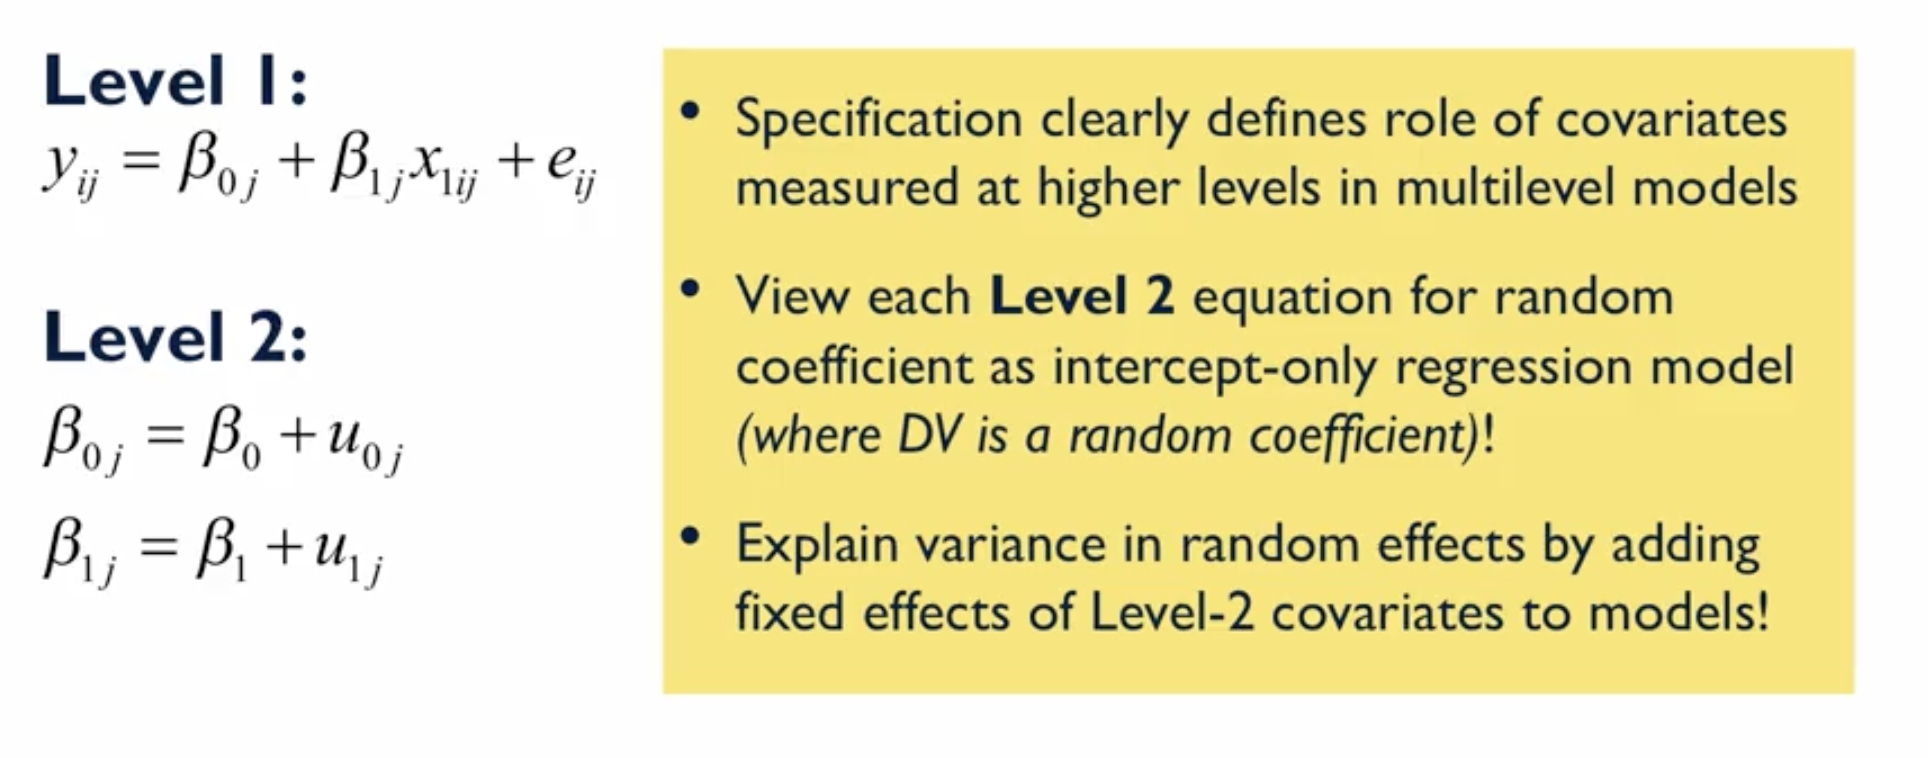
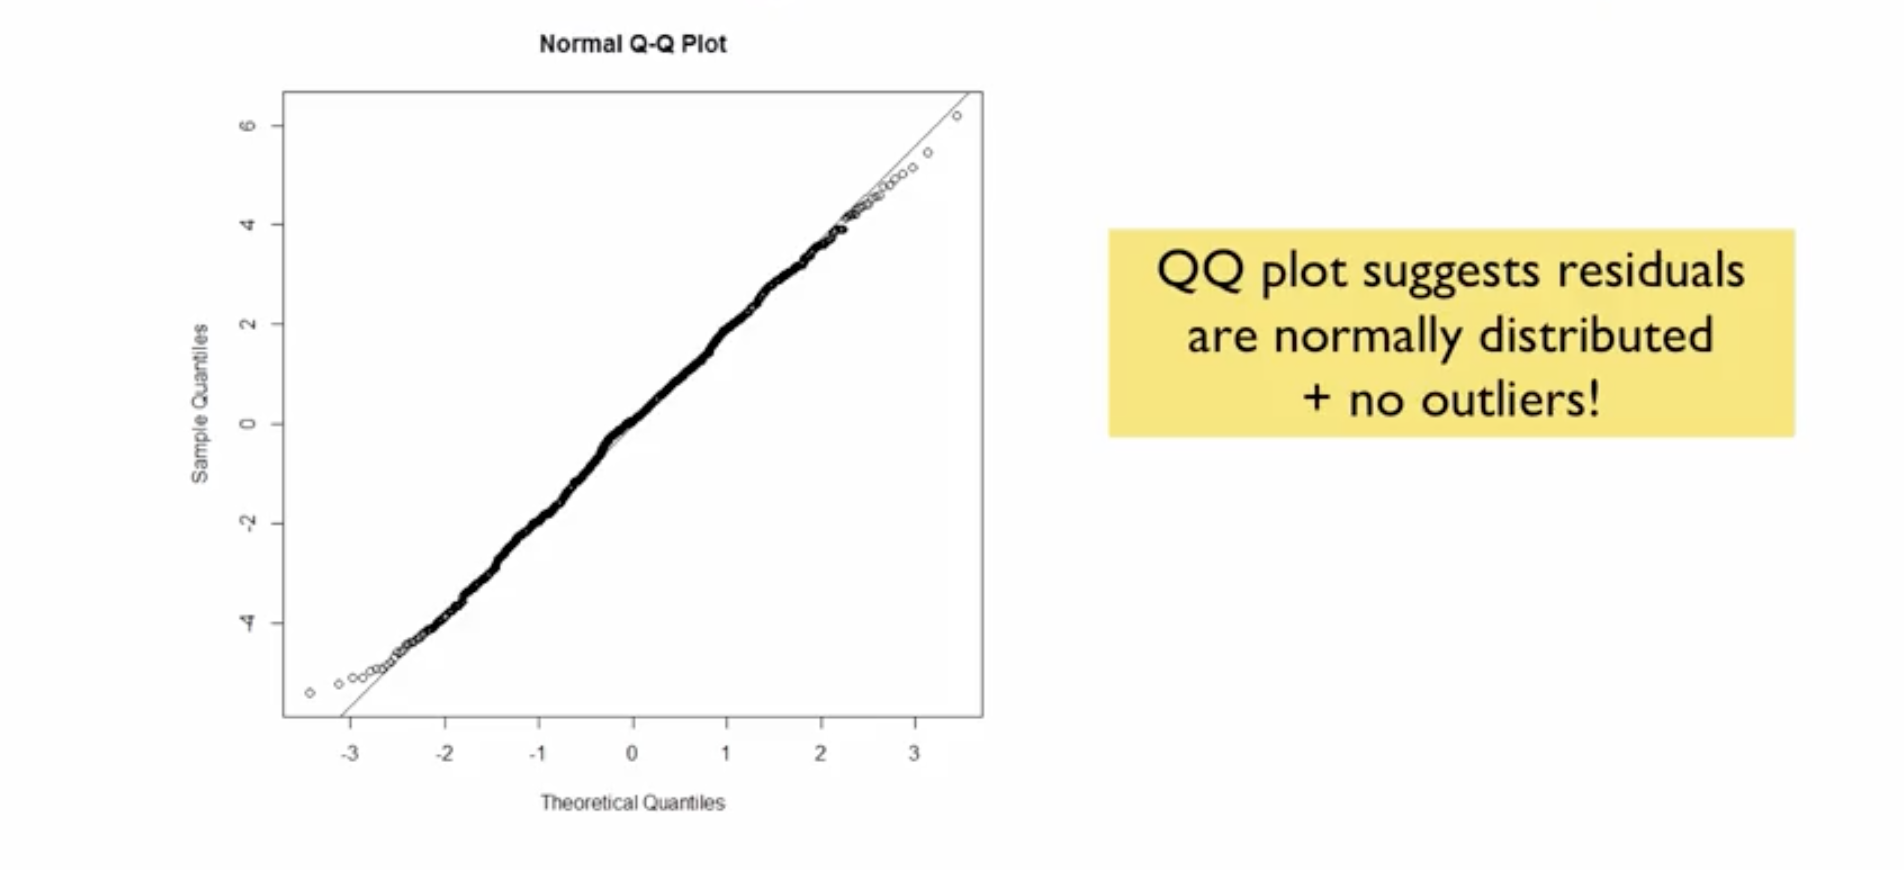
working on alternative 03_multilevel_linear_regression

diff --git a/03_specializations/01_fitting_statistical_models_to_data_with_python/03_fitting_models_to_dependent_data/03_multilevel_linear_regression_models.md b/03_specializations/01_fitting_statistical_models_to_data_with_python/03_fitting_models_to_dependent_data/03_multilevel_linear_regression_models.md
@@ -119,15 +119,21 @@ Good analysis doesn't stop at finding an effect; it investigates it. Diagnostics
 
 1.  **Level 1 Residuals:** We check if the within-cluster errors are normally distributed and have constant variance.
     *   The QQ plot showed residuals falling on a straight line, suggesting the normality assumption is met.
-    {{ Insert screenshot of the QQ plot of residuals here }}
+
+    ![](./images/0301.png)
+
     *   The residuals vs. fitted plot showed no clear pattern (like a funnel), supporting the constant variance assumption.
-    {{ Insert screenshot of the residuals vs. fitted values plot here }}
+
+    ![](./images/0302.png)
 
 2.  **Level 2 Random Effects (EBLUPs):** We examine the predicted random effects for each interviewer to see if any are outliers.
     *   The QQ plot for the random intercepts showed one interviewer (ID 4976) with an unusually low intercept.
-    {{ Insert screenshot of the QQ plot for random intercept EBLUPs here }}
+
+    ![](./images/0303.jpg)
+
     *   The QQ plot for the random slopes showed another interviewer (ID 7519) with an unusual slope.
-    {{ Insert screenshot of the QQ plot for random slope EBLUPs here }}
+
+    ![](./images/0304.jpg)
 
 3.  **Investigating the Outliers:**
     *   **The Outlier Intercept (ID 4976):** A plot of this interviewer's data revealed they collected an unusually large number of low "helpfulness" scores. This could be due to their interviewing style or the specific group they surveyed.
